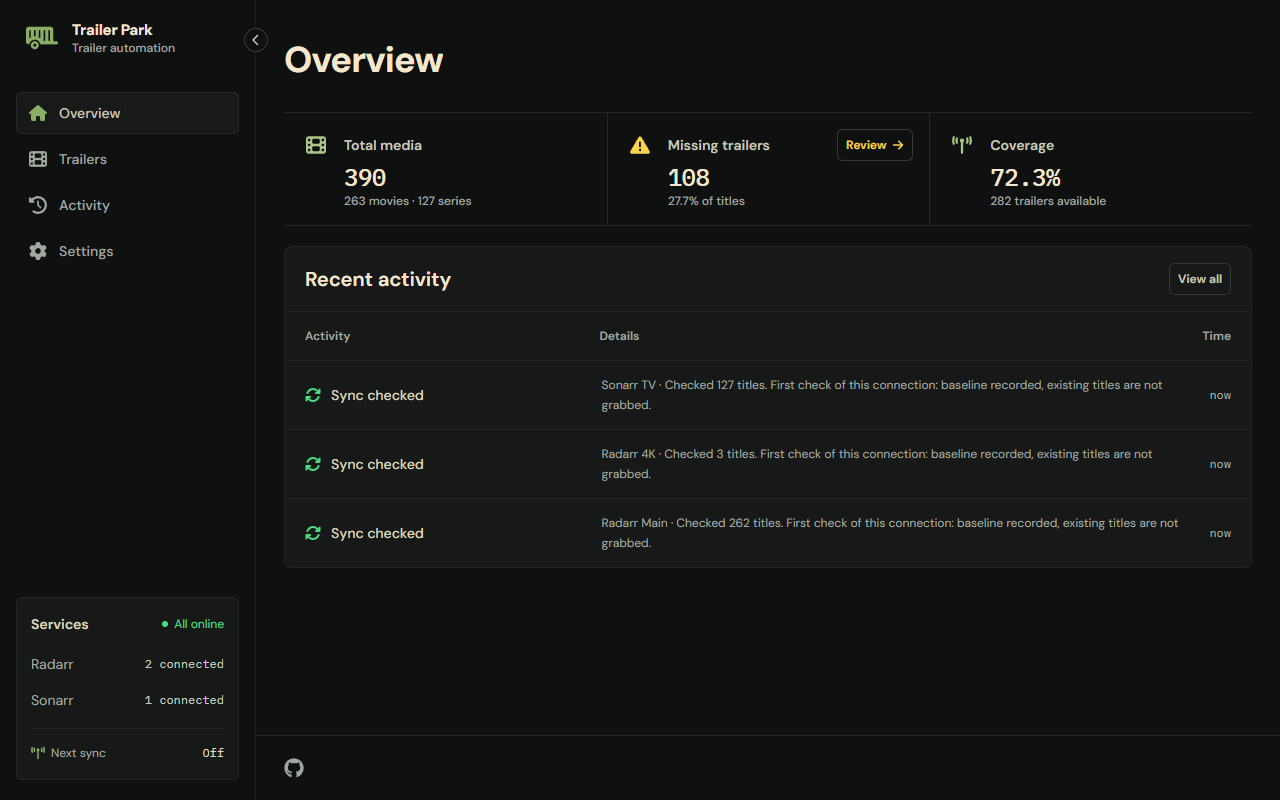
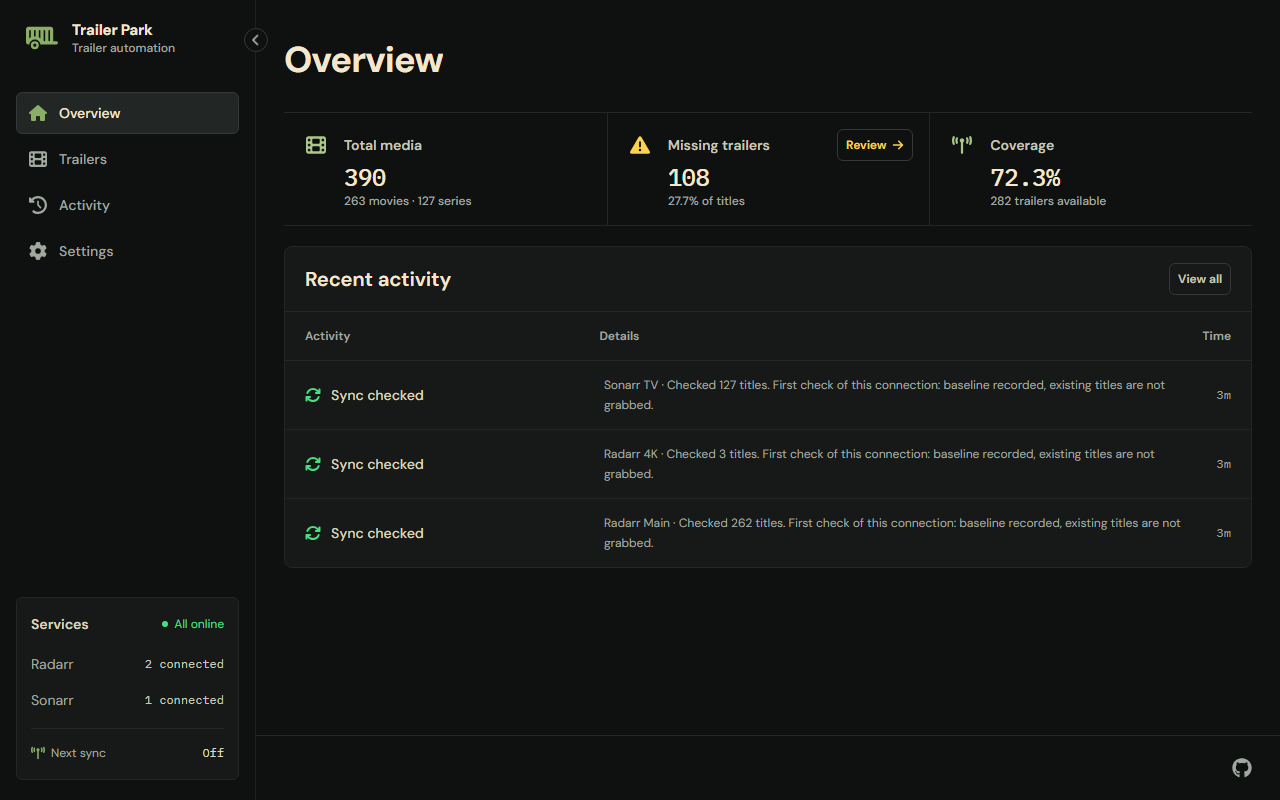
feat(shell): right-align the footer actions
Footer actions now sit at the right edge of the content area instead of
the left, in the order they are added. The last icon lines up with the
right edge of the page content. The README overview screenshot is
retaken to match.

Refs #91

diff --git a/static/ui/css/shell.css b/static/ui/css/shell.css
@@ -51,6 +51,10 @@ body.menu-open {
   margin: 0 auto;
   padding: var(--space-3) var(--space-4);
   border-top: 1px solid var(--line);
+  /* Actions sit at the right edge, in the order they are added. */
+  display: flex;
+  justify-content: flex-end;
+  gap: var(--space-1);
 }
 
 @media (min-width: 40rem) {
@@ -65,10 +69,14 @@ body.menu-open {
   justify-content: center;
   width: 2.5rem;
   height: 2.5rem;
-  margin-inline-start: -0.625rem; /* half the 1.25rem difference between hit area and icon: the icon lines up with the page content */
   border-radius: var(--radius-md);
   color: var(--text-muted);
   transition: background-color var(--ease), color var(--ease);
+}
+
+/* Half the 1.25rem difference between hit area and icon: the last icon lines up with the right edge of the page content. */
+.footer__link:last-child {
+  margin-inline-end: -0.625rem;
 }
 
 .footer__link:hover {
